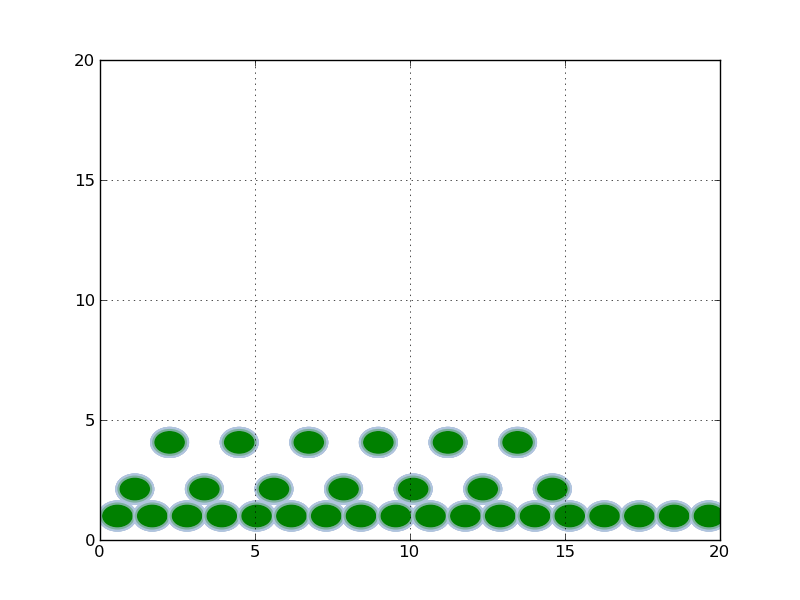
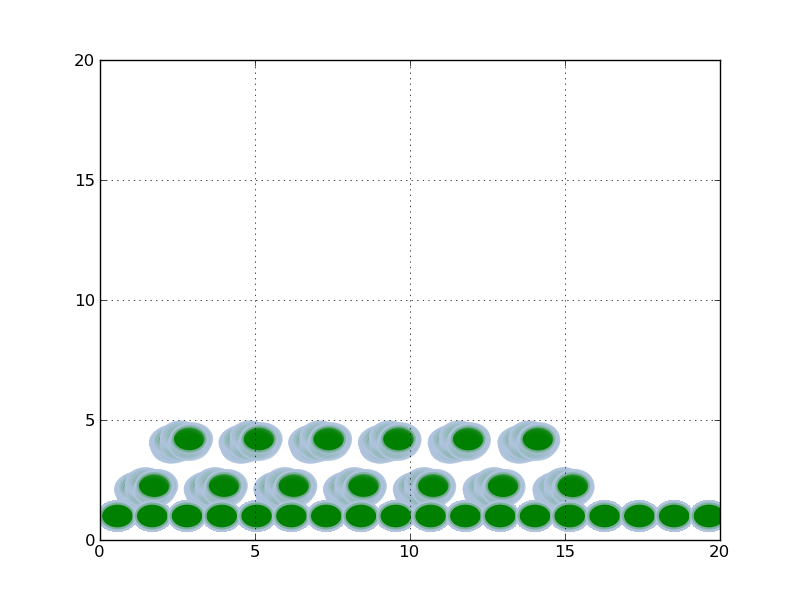
move sledMatrix to ContainerInit, f_x k=100, verbose output

Changed region(s): [[0.125, 0.69, 0.75, 0.84]]

diff --git a/Force.py b/Force.py
@@ -7,7 +7,7 @@ class Force(object):
 
     def __init__(self, c):
         self.c = c
-        self.c.springMatrix = self.c.d_sled()
+        #self.c.springMatrix = self.c.d_sled()
     # TODO: pe calculation
     #def pe(self):
     #    eps = 1.
@@ -77,6 +77,9 @@ class Force(object):
 
         f = r_hat * (24 * eps) / dr * (2 * (sig / dr) ** 12 - (sig / dr) ** 6)
         f = self.c.vRmNan(f)
+
+        print "aLJ: "
+        print np.sum(f, axis=1) / m
         return np.sum(f, axis=1) / m
         
     # acceleration due to pulling force
@@ -86,8 +89,10 @@ class Force(object):
     def aX(self, t):
         p = self.c.p[-1]  # only want the cFloorth index :/
         #x = p[cFloor].x
-        
-        return Vector_3D(10 * (0.1 * t - (p.x - self.c.xInit)), 0., 0.)
+
+        print "aX: "
+        print str(Vector_3D(100 * (0.1 * t - (p.x - self.c.xInit)), 0., 0.))
+        return Vector_3D(100 * (0.1 * t - (p.x - self.c.xInit)), 0., 0.)
     	
     # acceleration due to dragging force
 
@@ -97,7 +102,9 @@ class Force(object):
         y = p.y
         v = self.c.v[self.c.cFloor]
         dr = p.magnitude()  # TODO I have no idea what this dr is supposed to be
-    
+
+        print "aD:"
+        print Vector_3D(-10 * (v.x * x + v.y * y) / dr, 0., 0.)
         return Vector_3D(-10 * (v.x * x + v.y * y) / dr, 0., 0.)  # divide by mass as well here
 
     # acceleration due to spring force
@@ -105,6 +112,8 @@ class Force(object):
         #tempa = (self.c.d_sled() - Vector_3D(2 * a, 2 * a, 0.)) * -500
         tempa = (self.c.d_sled() - self.c.springMatrix) * -500
         tempa = tempa * self.c.sledMatrix
+        print "aS:"
+        print np.sum(tempa, axis=1) / self.c.m[self.c.cFloor:]
         return np.sum(tempa, axis=1) / self.c.m[self.c.cFloor:]
 
     def a(self, t):

diff --git a/driver.py b/driver.py
@@ -6,9 +6,9 @@ import ContainerInitializer
 import numpy as np
 import matplotlib.pyplot as plt
 
-FRAME_RATE = 1
+FRAME_RATE = 10
 DELTA_T = 0.01
-NUM_TIMESTEPS = 100
+NUM_TIMESTEPS = 5000
 
 
 def circle(xy, radius, color="lightsteelblue", facecolor="green", alpha=.6, ax=None):
@@ -37,16 +37,16 @@ count = 1
 plt.figure(1)
 plt.clf()
 plt.ion()
-plt.xlim((0, c.L.x))
-plt.ylim((0, c.L.y))
-#plt.xlim((0, 20.))
-#plt.ylim((0, 20.))
+#plt.xlim((0, c.L.x))
+#plt.ylim((0, c.L.y))
+plt.xlim((0, 20.))
+plt.ylim((0, 20.))
 plt.grid()
 ax = plt.gca()
 plt.show()
 
-print "d at time 0.0"
-print c.d()
+print "p at time 0.0"
+print c.p
 
 while count < NUM_TIMESTEPS:
     #print "--------- BEGIN TIMESTEP " + str(count) + " --------------"
@@ -67,20 +67,23 @@ while count < NUM_TIMESTEPS:
     #c.Lx -= 0.01
     #c.Ly -= 0.01
 
-    print "velocity of last p at time: " + str(DELTA_T*count)
-    print c.v[-1]
-    print "accel at time: " + str(DELTA_T * count)
-    print c.a
     if count % FRAME_RATE == 0:
         #print "c.x"
         #print c.x
         #print "c.y"
         #print c.y
 
+        print "velocity at time: " + str(DELTA_T*count)
+        print c.v
+        print "accel at time: " + str(DELTA_T * count)
+        print c.a
+        print "p at time: " + str(DELTA_T*count)
+        print c.p
+
         for particle in range(len(c.m)):
             circle((c.p[particle].x, c.p[particle].y), radius=0.5*2**(1/6.), ax=ax, facecolor='green')
         plt.draw()
-        #plt.savefig('heracles_sled.png')
+        plt.savefig('heracles_sled.png')
             #part_x = 0.
             #part_y = 0.
             #circle((c.x[particle], c.y[particle]), radius = 0.5*2**(1/6.), ax=ax, facecolor='green')

diff --git a/ContainerInitializer.py b/ContainerInitializer.py
@@ -178,6 +178,7 @@ class ContainerInitializer(object):
             x[1] = 1.
             x[2] = 1.
             c.sledMatrix = toeplitz(x)
+            c.springMatrix = c.d_sled()
         self.c = c
 
 
